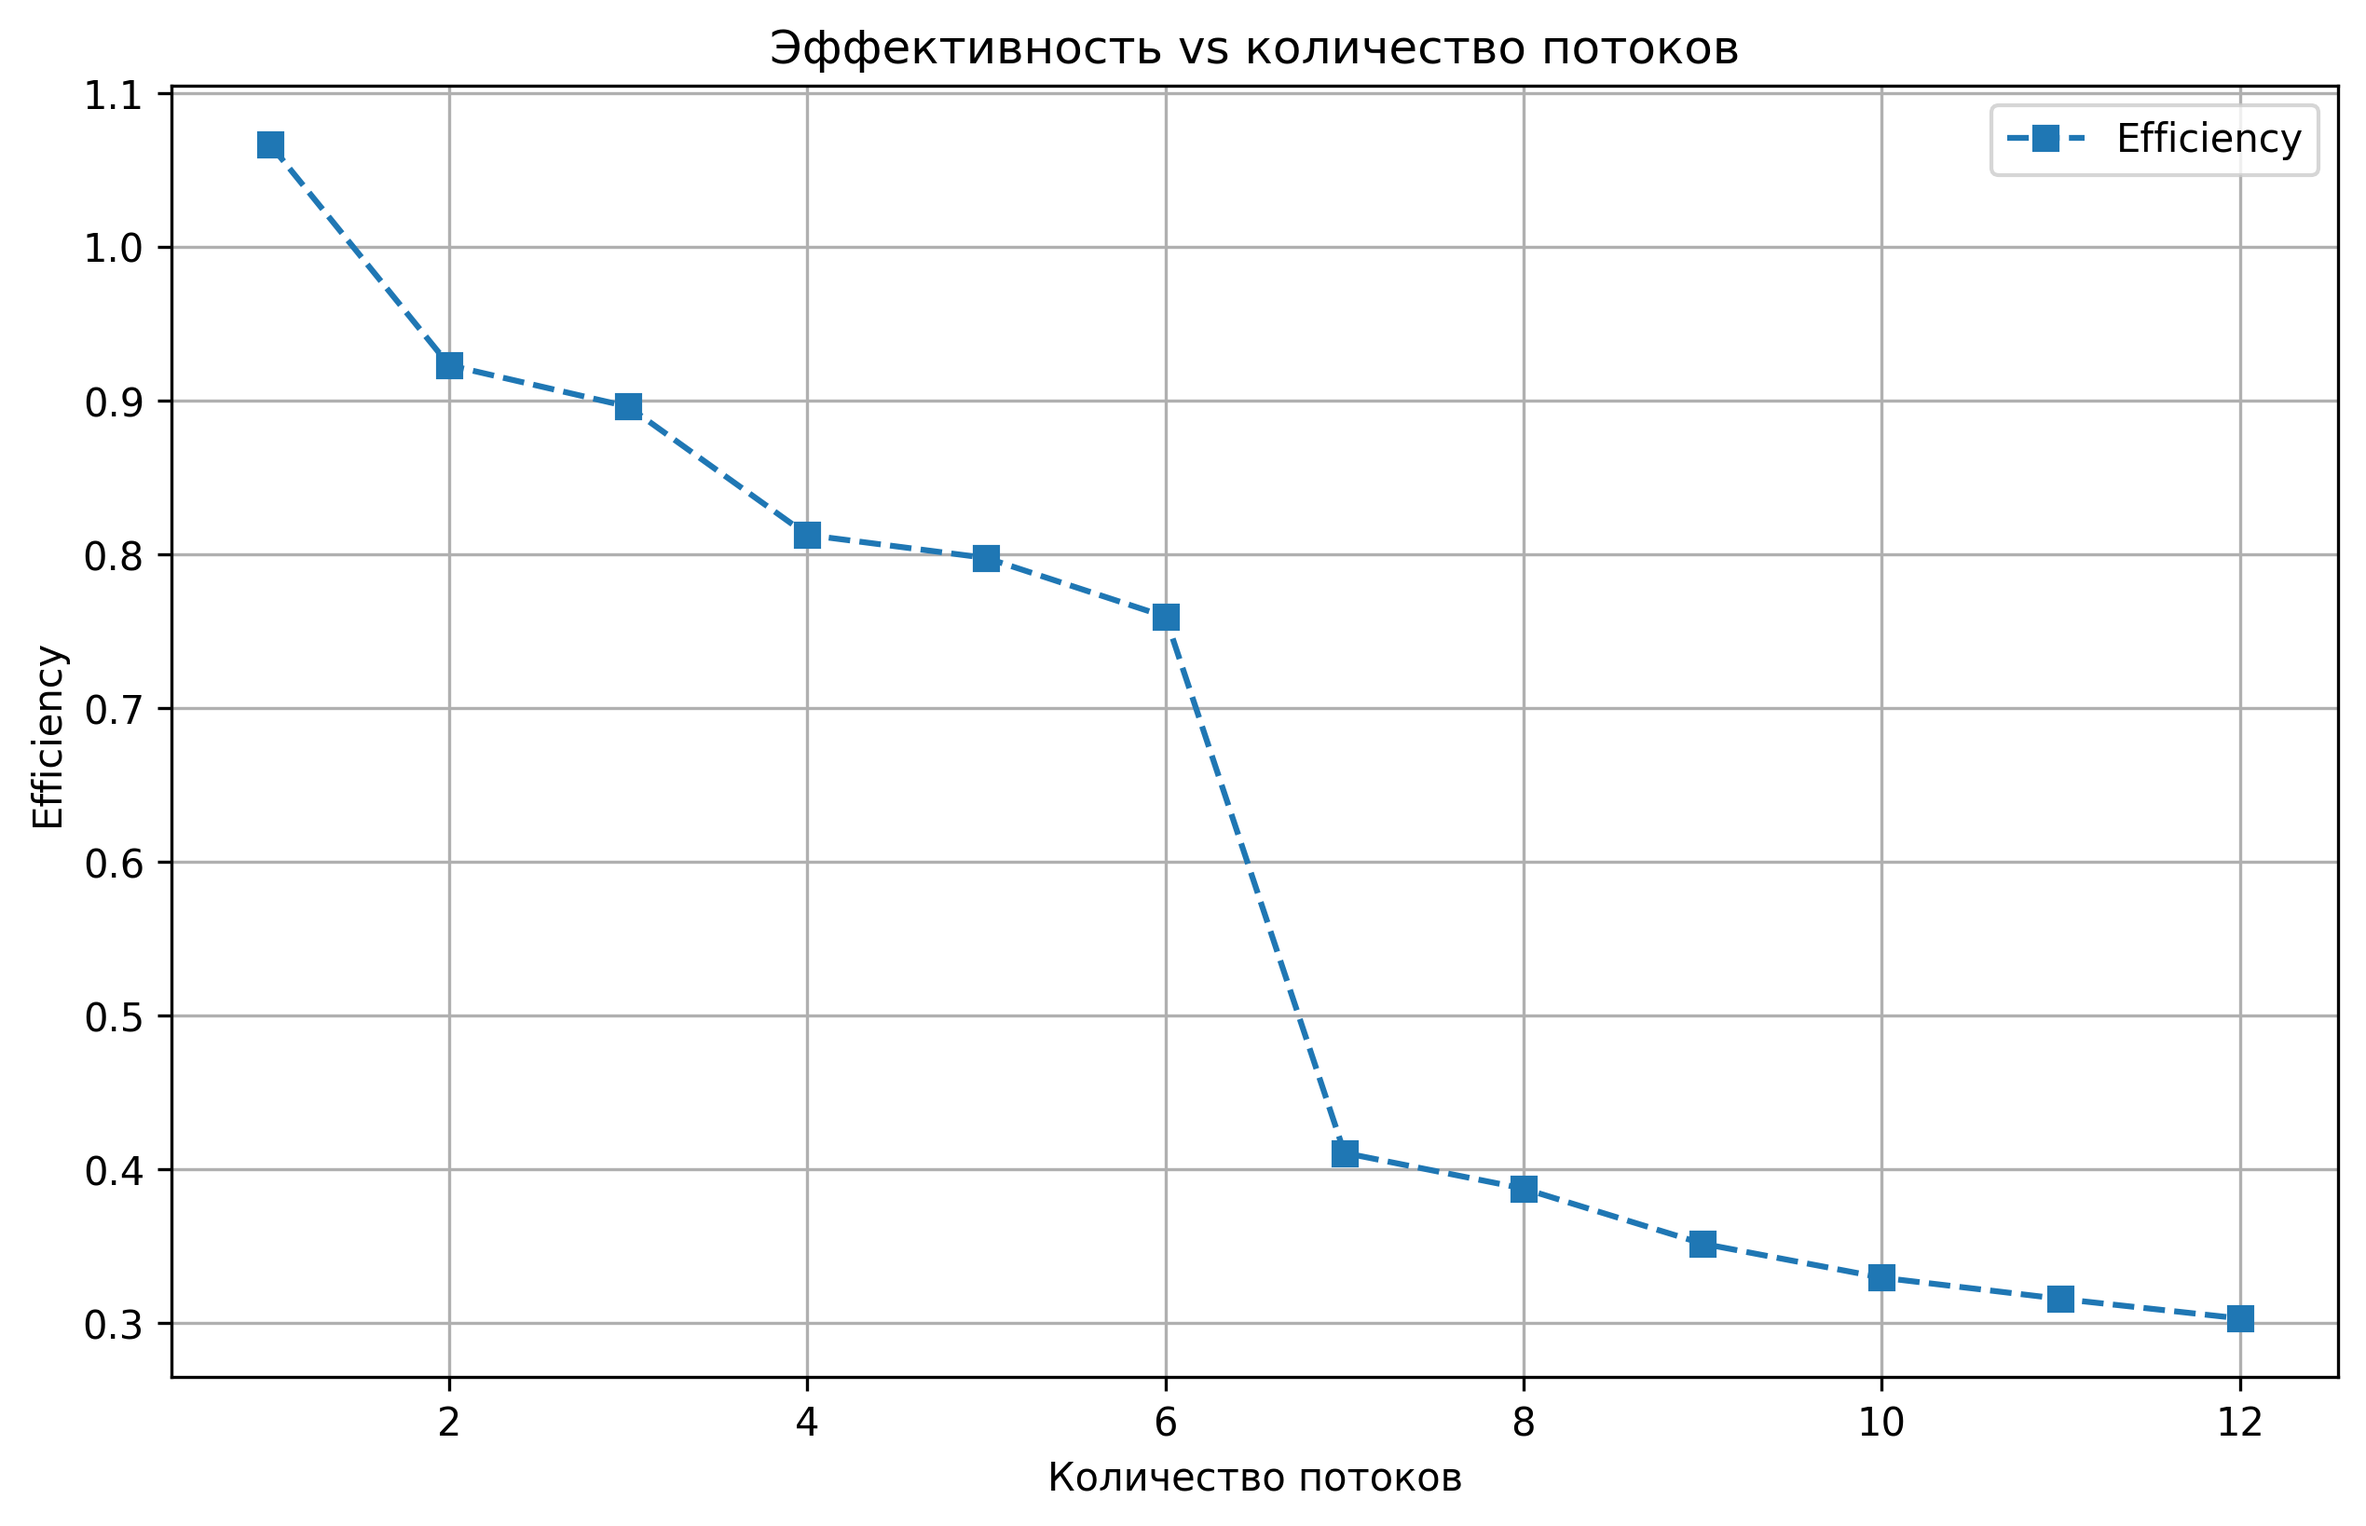
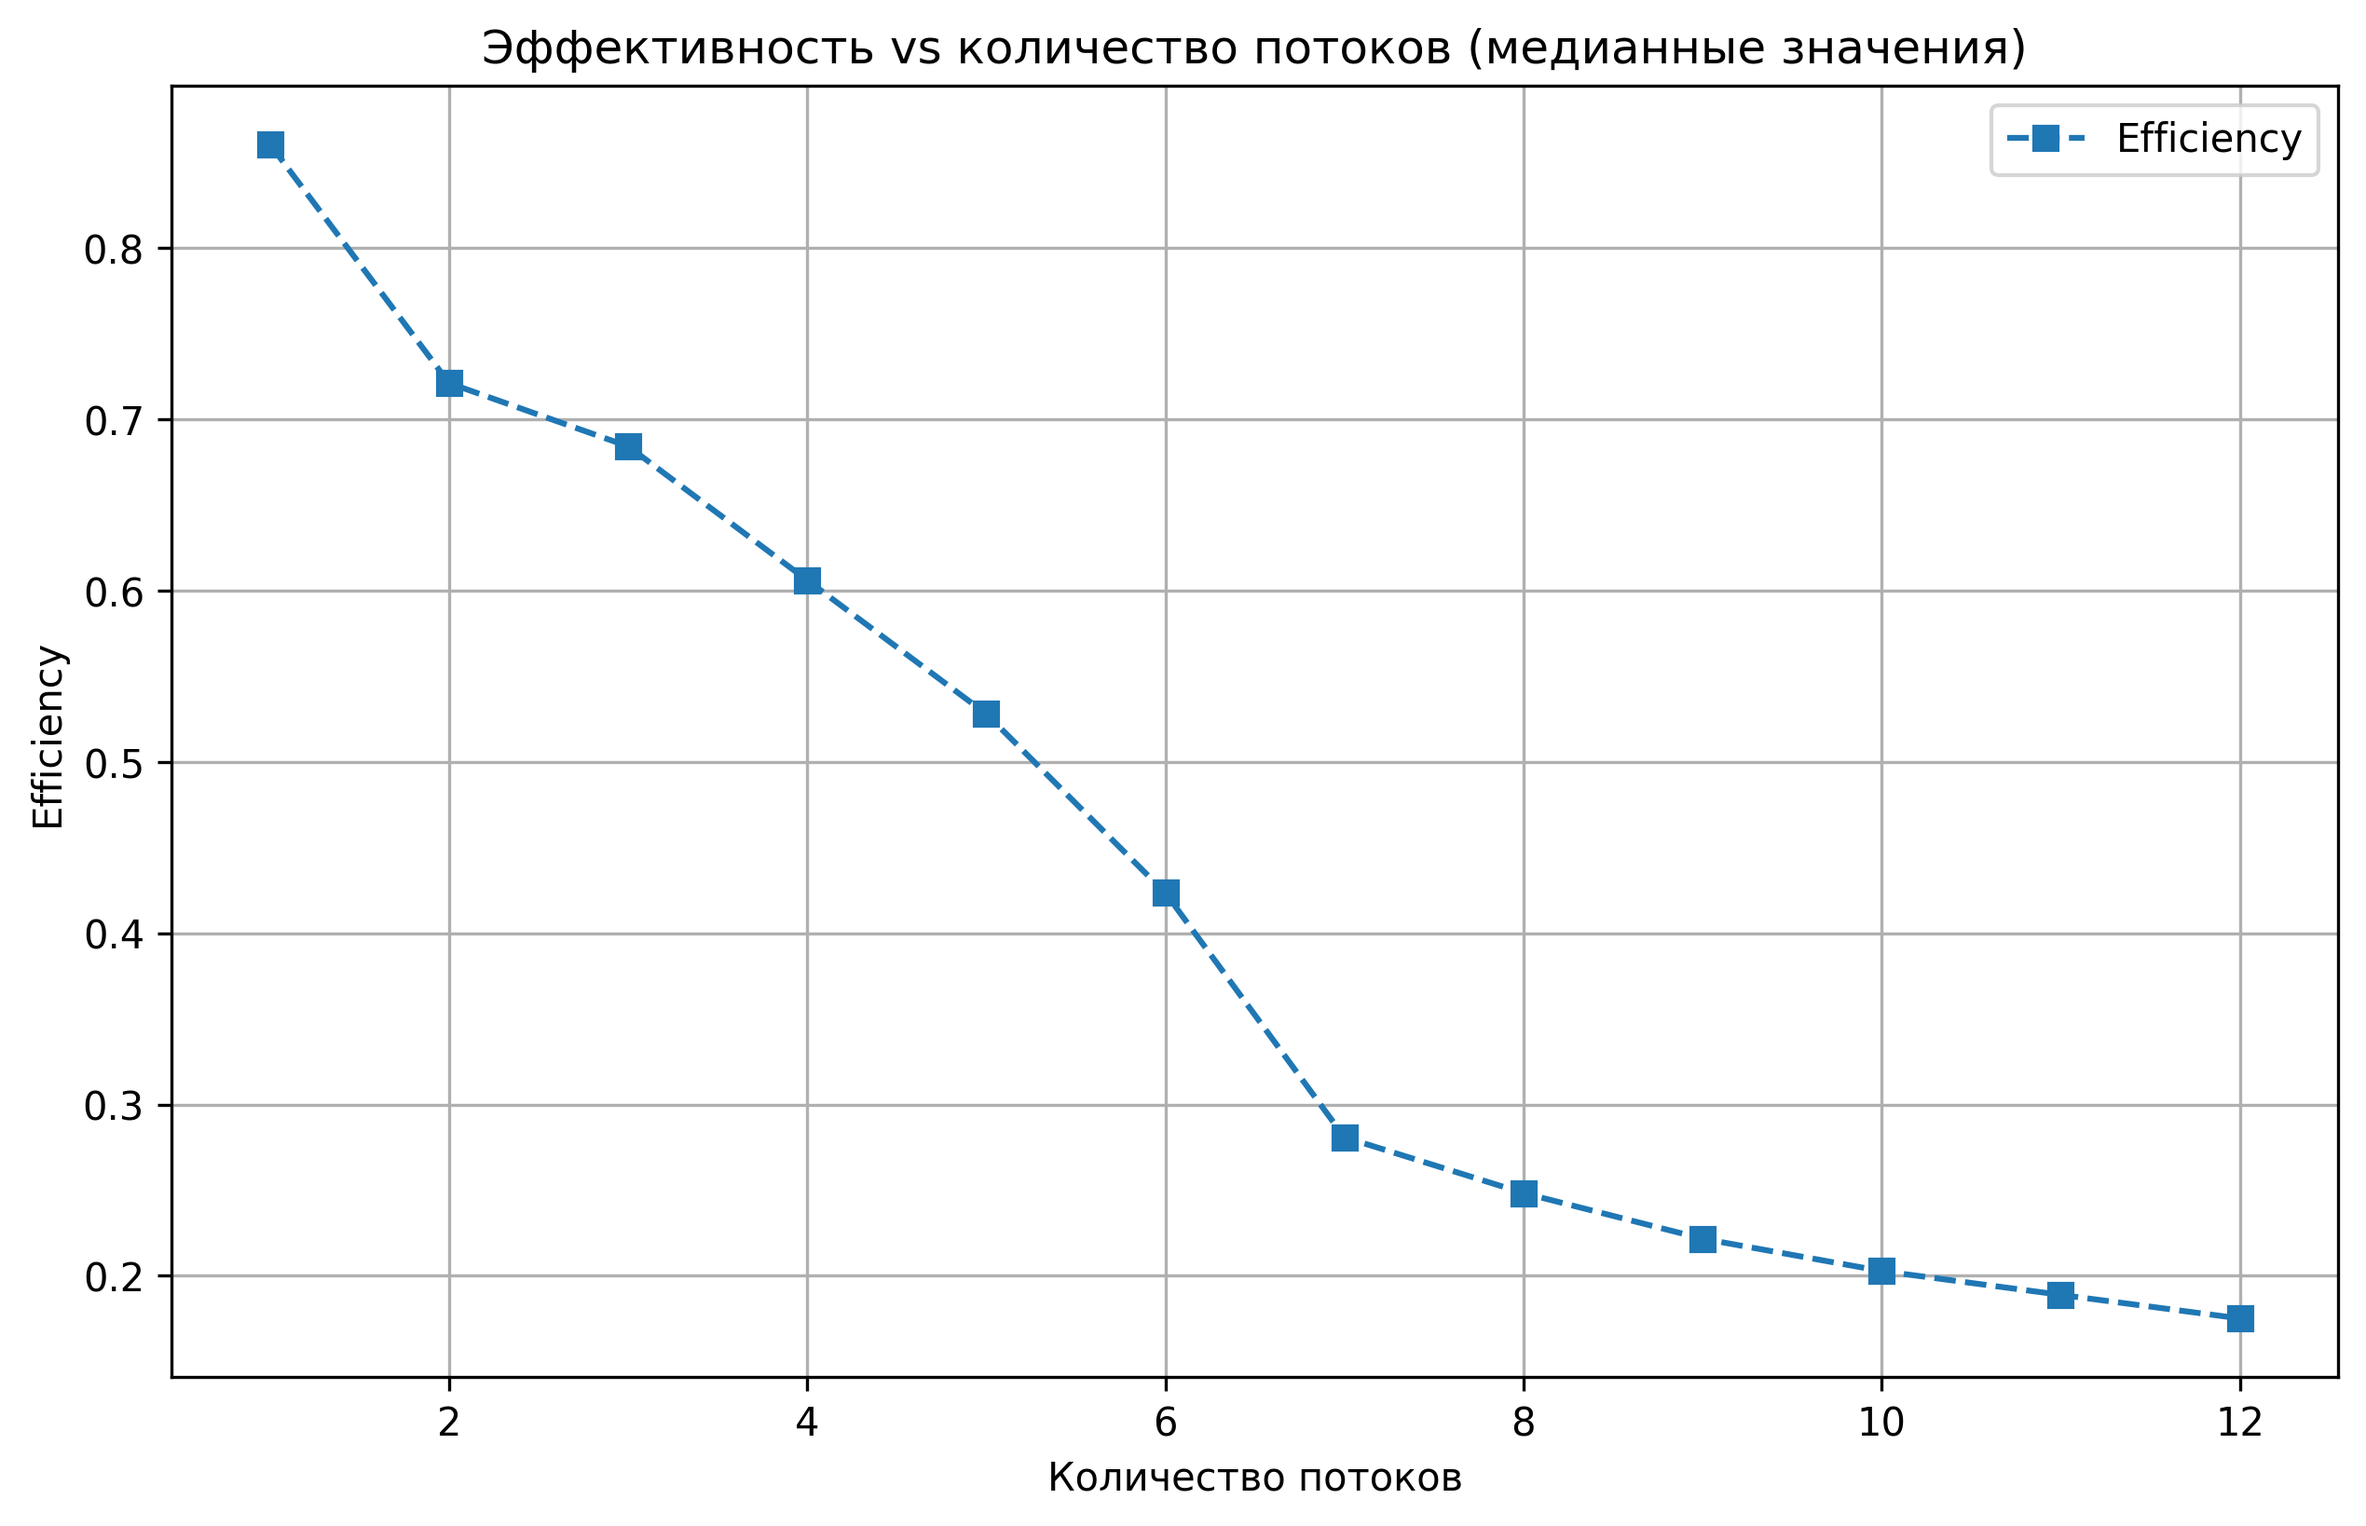
update benchmark

diff --git a/lab2_var5/main.c b/lab2_var5/main.c
@@ -196,7 +196,6 @@ double get_time() {
     return ts.tv_sec + ts.tv_nsec / 1e9;
 }
 
-
 void print_help() {
     printf("Использование:\n");
     printf("  ./sort -n <размер> -t <потоки> [-f <файл>]\n");
@@ -212,6 +211,7 @@ int main(int argc, char* argv[]) {
     int max_threads = 12;
     char* filename = NULL;
     int benchmark_mode = 0;
+    int runs = 5;
 
     for (int i = 1; i < argc; i++) {
         if (strcmp(argv[i], "-n") == 0 && i + 1 < argc)
@@ -222,6 +222,8 @@ int main(int argc, char* argv[]) {
             filename = argv[++i];
         else if (strcmp(argv[i], "--bench") == 0)
             benchmark_mode = 1;
+        else if (strcmp(argv[i], "-r") == 0 && i + 1 < argc)
+            runs = atoi(argv[++i]);
         else if (strcmp(argv[i], "-h") == 0) {
             print_help();
             printf("  --bench         Режим бенчмарка: строит таблицу для графиков\n");
@@ -247,13 +249,12 @@ int main(int argc, char* argv[]) {
 //
     if (benchmark_mode) {
         FILE* csv = fopen("results.csv", "w");
-        
         if (!csv) {
             fprintf(stderr, "Ошибка создания файла results.csv\n");
             return 1;
         }
 
-        fprintf(csv, "threads,speedup,efficiency,time_seq,time_par\n");
+        fprintf(csv, "run,threads,speedup,efficiency,time_seq,time_par\n");
 
         int* seq_array = copy_array(array, array_size);
         double start = get_time();
@@ -263,46 +264,51 @@ int main(int argc, char* argv[]) {
 
         printf("Время последовательной сортировки: %.6f сек\n", seq_time);
 
-        for (int t = 1; t <= max_threads; t++) {
-            int* array_par = copy_array(array, array_size);
+        for (int run = 1; run <= runs; run++) {
+            printf("\n=== Прогон %d/%d ===\n", run, runs);
 
-            pthread_barrier_init(&g_barrier, NULL, t);
-            pthread_t* threads = malloc(t * sizeof(pthread_t));
-            thread_data_t* thread_data = malloc(t * sizeof(thread_data_t));
+            for (int t = 1; t <= max_threads; t++) {
+                int* array_par = copy_array(array, array_size);
 
-            start = get_time();
-            for (int i = 0; i < t; i++) {
-                thread_data[i].array = array_par;
-                thread_data[i].size = array_size;
-                thread_data[i].thread_id = i;
-                thread_data[i].num_threads = t;
-                thread_data[i].barrier = &g_barrier;
-                pthread_create(&threads[i], NULL, batcher_odd_even_sort_parallel, &thread_data[i]);
+                pthread_barrier_init(&g_barrier, NULL, t);
+                pthread_t* threads = malloc(t * sizeof(pthread_t));
+                thread_data_t* thread_data = malloc(t * sizeof(thread_data_t));
+
+                start = get_time();
+                for (int i = 0; i < t; i++) {
+                    thread_data[i].array = array_par;
+                    thread_data[i].size = array_size;
+                    thread_data[i].thread_id = i;
+                    thread_data[i].num_threads = t;
+                    thread_data[i].barrier = &g_barrier;
+                    pthread_create(&threads[i], NULL, batcher_odd_even_sort_parallel, &thread_data[i]);
+                }
+
+                for (int i = 0; i < t; i++)
+                    pthread_join(threads[i], NULL);
+
+                double par_time = get_time() - start;
+
+                pthread_barrier_destroy(&g_barrier);
+
+                free(array_par);
+                free(threads);
+                free(thread_data);
+
+                double speedup = seq_time / par_time;
+                double efficiency = speedup / t;
+
+                fprintf(csv, "%d,%d,%.4f,%.4f,%.6f,%.6f\n",
+                        run, t, speedup, efficiency, seq_time, par_time);
+
+                printf("Run %2d | Threads: %2d | Time: %.4fs | Speedup: %.2f | Efficiency: %.2f\n",
+                    run, t, par_time, speedup, efficiency);
             }
-
-            for (int i = 0; i < t; i++)
-                pthread_join(threads[i], NULL);
-
-            double par_time = get_time() - start;
-
-            pthread_barrier_destroy(&g_barrier);
-
-            free(array_par);
-            free(threads);
-            free(thread_data);
-
-            double speedup = seq_time / par_time;
-            double efficiency = speedup / t;
-
-            fprintf(csv, "%d,%.4f,%.4f,%.6f,%.6f\n", t, speedup, efficiency, seq_time, par_time);
-            printf("Threads: %2d | Time: %.4fs | Speedup: %.2f | Efficiency: %.2f\n",
-                   t, par_time, speedup, efficiency);
         }
 
         fclose(csv);
         printf("\nРезультаты сохранены в файл results.csv\n");
         free(array);
-
         return 0;
     }
 //

diff --git a/lab2_var5/graphs.py b/lab2_var5/graphs.py
@@ -1,60 +1,57 @@
 import pandas as pd
 import matplotlib.pyplot as plt
 import numpy as np
+import os
+
+os.makedirs("out", exist_ok=True)
 
 df = pd.read_csv("results.csv")
 
+df_grouped = df.groupby("threads", as_index=False).median()
+print("Использованы медианные значения по каждому количеству потоков.")
 
-# 1. Speedup vs Threads
 
+# === 1. Speedup vs Threads ===
 plt.figure(figsize=(10, 6))
+plt.plot(df_grouped["threads"], df_grouped["speedup"], "o-", label="Экспериментальный speedup")
 
-plt.plot(df["threads"], df["speedup"], "o-", label="Экспериментальный speedup")
-
-max_t = df["threads"].max()
-ideal = df["threads"]
-plt.plot(ideal, ideal, "k--", label="Идеальный speedup (y=x)")
+max_t = df_grouped["threads"].max()
+plt.plot(df_grouped["threads"], df_grouped["threads"], "k--", label="Идеальный speedup (y=x)")
 
 plt.xlabel("Количество потоков")
 plt.ylabel("Speedup")
-plt.title("Ускорение vs количество потоков")
+plt.title("Ускорение vs количество потоков (медианные значения)")
 plt.grid(True)
 plt.legend()
-plt.savefig("speedup.png", dpi=300, bbox_inches="tight")
+plt.savefig("out/speedup.png", dpi=300, bbox_inches="tight")
 
 
-# 2. Efficiency vs Threads
-
+# === 2. Efficiency vs Threads ===
 plt.figure(figsize=(10, 6))
-plt.plot(df["threads"], df["efficiency"], "s--", label="Efficiency")
+plt.plot(df_grouped["threads"], df_grouped["efficiency"], "s--", label="Efficiency")
 plt.xlabel("Количество потоков")
 plt.ylabel("Efficiency")
-plt.title("Эффективность vs количество потоков")
+plt.title("Эффективность vs количество потоков (медианные значения)")
 plt.grid(True)
 plt.legend()
-plt.savefig("efficiency.png", dpi=300, bbox_inches="tight")
+plt.savefig("out/efficiency.png", dpi=300, bbox_inches="tight")
 
 
-# 3. Execution times
-
+# === 3. Execution times ===
 plt.figure(figsize=(10, 6))
-plt.plot(df["threads"], df["time_seq"], "o-", label="Время последовательной версии")
-plt.plot(df["threads"], df["time_par"], "s--", label="Время параллельной версии")
+plt.plot(df_grouped["threads"], df_grouped["time_seq"], "o-", label="Время последовательной версии")
+plt.plot(df_grouped["threads"], df_grouped["time_par"], "s--", label="Время параллельной версии")
 plt.xlabel("Количество потоков")
 plt.ylabel("Время (сек)")
-plt.title("Время работы vs количество потоков")
+plt.title("Время работы vs количество потоков (медианные значения)")
 plt.grid(True)
 plt.legend()
-plt.savefig("times.png", dpi=300, bbox_inches="tight")
+plt.savefig("out/times.png", dpi=300, bbox_inches="tight")
 
 
-# 4. Закон Амдала: теоретический vs фактический speedup
-
-# Используем данные с 12 потоками, чтобы оценить параллельную долю
-# Способ: решить уравнение S = 1 / ((1-P) + P/N)
-
-N = df["threads"].max()
-S_exp = df.loc[df["threads"] == N, "speedup"].iloc[0]
+# === 4. Закон Амдала ===
+N = df_grouped["threads"].max()
+S_exp = df_grouped.loc[df_grouped["threads"] == N, "speedup"].iloc[0]
 
 P = (1/S_exp - 1) / (1/N - 1)
 P = max(0, min(P, 1))
@@ -63,13 +60,13 @@ threads_range = np.arange(1, N+1)
 speedup_amdahl = 1 / ((1-P) + P / threads_range)
 
 plt.figure(figsize=(10, 6))
-plt.plot(threads_range, speedup_amdahl, "r--", label=f"Амдал (p={P:.2f})")
-plt.plot(df["threads"], df["speedup"], "bo-", label="Экспериментальный speedup")
+plt.plot(threads_range, speedup_amdahl, "r--", label=f"Амдал (p={P:.2%})")
+plt.plot(df_grouped["threads"], df_grouped["speedup"], "bo-", label="Экспериментальный speedup (медиана)")
 plt.xlabel("Количество потоков")
 plt.ylabel("Speedup")
-plt.title("Сравнение: закон Амдала и эксперимент")
+plt.title("Сравнение: закон Амдала и эксперимент (медианные значения)")
 plt.grid(True)
 plt.legend()
-plt.savefig("amdahl.png", dpi=300, bbox_inches="tight")
+plt.savefig("out/amdahl.png", dpi=300, bbox_inches="tight")
 
-print("Графики сохранены: speedup.png, efficiency.png, times.png, amdahl.png")
+print("Графики сохранены: в директорию ./out/")
